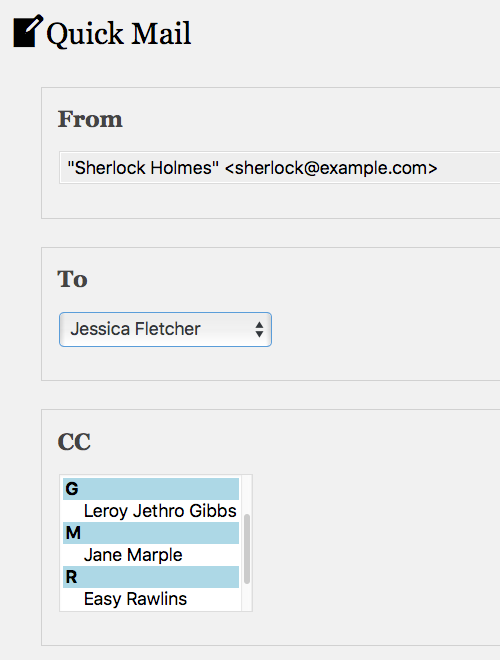
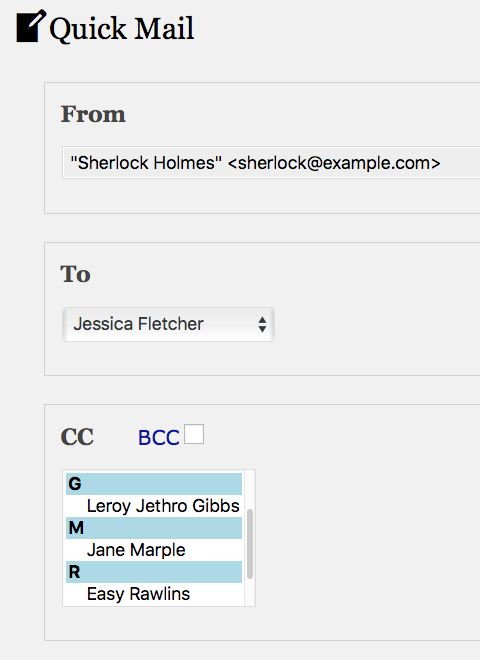
fixed message type on html messages. added Bcc option. improved help.

diff --git a/quick-mail.css b/quick-mail.css
@@ -1,5 +1,5 @@
 @CHARSET "UTF-8";
-/* quick-mail.css 2.0.6 */
+/* quick-mail.css 3.0.1 */
 
 fieldset {
 border: 1px solid #d1d1d1;
@@ -65,6 +65,10 @@ label.qm-label, span.qm-label {
 }
 label.qm-label, a:link, a:link:visited {
 	color: #11169b;
+}
+
+label#qmbcc_label { 
+	padding-left: 2em;
 }
 span.qm-label {
 	display: block;

diff --git a/quick-mail.php b/quick-mail.php
@@ -2,10 +2,10 @@
 /*
 Plugin Name: Quick Mail
 Description: Adds Quick Mail to Tools menu. Send email with an attachment from dashboard, using a list of users or enter a name.
-Version: 3.0.0
+Version: 3.0.1
 Author: Mitchell D. Miller
-Author URI: http://wheredidmybraingo.com/
-Plugin URI: http://wheredidmybraingo.com/tag/quick-mail/
+Author URI: https://wheredidmybraingo.com/
+Plugin URI: https://wheredidmybraingo.com/tag/quick-mail/
 Text Domain: quick-mail
 Domain Path: /lang
 */
@@ -484,7 +484,7 @@ jQuery(document).ready( function() {
    } // end quick_mail_recipient_input
    
 	public function quick_mail_cc_input( $to, $cc, $id ) {
-	   	$template = '<input aria-labelledby="qmcc_label" value="%s" id="qm-cc" name="qm-cc" type="text" size="35" tabindex="2" placeholder="%s">';
+	   	$template = '<input aria-labelledby="qmcc_label" value="%s" id="qm-cc" name="qm-cc" type="text" size="35" tabindex="3" placeholder="%s">';
 	   	$blog = is_multisite() ? get_current_blog_id() : 0;
 	   	$option = $this->qm_get_display_option( $blog );
 	   	if ( !$this->multiple_matching_users( $option, $blog ) ) {
@@ -640,6 +640,8 @@ jQuery(document).ready( function() {
          	wp_die( sprintf( '<h3>%s</h3>', __( 'Invalid mail address', 'quick-mail' ) ), __( 'Mail Error', 'quick-mail' ), $args );
          } // end if user circumvented Javascript
          
+         $rec_type = empty($_POST['qm_bcc']) ? 'Cc' : 'Bcc';
+         
          if (isset($_POST['qm-cc']) && is_array($_POST['qm-cc'])) {
          	$e = strtolower( urldecode( $_POST['qm-email'] ) );
          	foreach ($_POST['qm-cc'] as $c) {
@@ -710,13 +712,13 @@ jQuery(document).ready( function() {
          	$error = __( 'Please enter your message', 'quick-mail' );
          } else {
 	         $message = do_shortcode( $raw_msg );
-	         if ( strcmp( $raw_msg, $message ) || ( '<' == substr( $message, 0, 1 ) ) ) {
+	         if ( strcmp( $raw_msg, $message ) || is_string( strstr($message, '</') ) ) {
 				$this->content_type = 'text/html';
 	         } else {
 	         	$this->content_type = 'text/plain';
 	         } // end set content type
          } // end else got message
-
+         
          if ( empty( $error ) && !empty( $_FILES['attachment'] ) && !empty( $_FILES['attachment']['name'][0] ) ) {
 			$uploads = array_merge_recursive($_FILES['attachment'], $_FILES['second'], $_FILES['third'],
 											$_FILES['fourth'], $_FILES['fifth'], $_FILES['sixth'] );
@@ -766,15 +768,16 @@ jQuery(document).ready( function() {
          if ( empty( $error ) ) {
          	$headers = array( $from );
          	if ( !empty( $mcc ) ) {
-         		$headers[] = "Cc: {$mcc}";
+         		$headers[] = "{$rec_type}: {$mcc}";
          	} // end if CC
 
             if ( wp_mail( $to, $subject, $message, $headers, $attachments ) ) {
 	            	$success = __( 'Message Sent', 'quick-mail' );
+	            	$rec_label = ($rec_type == 'Cc') ? __( 'CC', 'quick-mail' ) : __( 'BCC', 'quick-mail' );
 	    			if (empty( $mcc ) ) {
 					$success .= sprintf("<br>%s %s", __( 'To', 'quick-mail' ), $to);            				
 				} else {
-					$success .= sprintf("<br>%s %s<br>%s %s", __( 'To', 'quick-mail' ), $to, __( 'CC', 'quick-mail' ), $mcc);
+					$success .= sprintf("<br>%s %s<br>%s %s", __( 'To', 'quick-mail' ), $to, $rec_label, $mcc);
 				} // end if has CC
             } else {
              	$error = __( 'Error sending mail', 'quick-mail' ); // else  error
@@ -866,6 +869,10 @@ if ( 'X' == $this->qm_get_display_option( $blog ) ) : ?>
 <?php endif; ?>
 <fieldset>
 <label id="qmcc_label" for="qm-cc" class="recipients"><?php _e( 'CC', 'quick-mail' ); ?></label>
+<label id="qmbcc_label" for="qm_bcc" class="qm-label"><?php _e( 'BCC', 'quick-mail' ); ?></label>
+<input tabindex="2" type="checkbox" id="qm_bcc" name="qm_bcc"
+onchange="if (jQuery('#qm_bcc').is(':checked')) { jQuery('#qmcc_label').text('<?php _e( 'BCC', 'quick-mail' ); ?>'); } 
+else { jQuery('#qmcc_label').text('<?php _e( 'CC', 'quick-mail' ); ?>') }">
 <p><?php echo $this->quick_mail_cc_input( $to, $mcc, $you->ID ); ?></p>
 </fieldset>
 <?php
@@ -888,23 +895,23 @@ placeholder="<?php _e( 'Subject', 'quick-mail' ); ?>" tabindex="22"></p>
 </fieldset>      
 <fieldset class="qm-second">
 <label id="qmf2" for="qm-second-file" class="recipients"><?php _e( 'Attachment', 'quick-mail' ); ?></label>
-<p class="qm-row-second"><input  aria-labelledby="qmf2" id="qm-second-file" name="second[]" type="file" multiple="multiple" tabindex="24"></p>
+<p class="qm-row-second"><input aria-labelledby="qmf2" id="qm-second-file" name="second[]" type="file" multiple="multiple" tabindex="24"></p>
 </fieldset>
 <fieldset class="qm-third">
 <label id="qmf3" for="qm-third-file" class="recipients"><?php _e( 'Attachment', 'quick-mail' ); ?></label>
-<p class="qm-row-third"><input  aria-labelledby="qmf3" id="qm-third-file" name="third[]" type="file" multiple="multiple" tabindex="25"></p>
+<p class="qm-row-third"><input aria-labelledby="qmf3" id="qm-third-file" name="third[]" type="file" multiple="multiple" tabindex="25"></p>
 </fieldset>
 <fieldset class="qm-fourth">
 <label id="qmf4" for="qm-fourth-file" class="recipients"><?php _e( 'Attachment', 'quick-mail' ); ?>:</label>
-<p class="qm-row-fourth"><input  aria-labelledby="qmf4" id="qm-fourth-file" name="fourth[]" type="file" multiple="multiple" tabindex="26"></p>
+<p class="qm-row-fourth"><input aria-labelledby="qmf4" id="qm-fourth-file" name="fourth[]" type="file" multiple="multiple" tabindex="26"></p>
 </fieldset>
 <fieldset class="qm-fifth">
 <label id="qmf5" for="qm-fifth-file" class="recipients"><?php _e( 'Attachment', 'quick-mail' ); ?></label>
-<p class="qm-row-fifth"><input  aria-labelledby="qmf5" id="qm-fifth-file" name="fifth[]" type="file" multiple="multiple" tabindex="27"></p>
+<p class="qm-row-fifth"><input aria-labelledby="qmf5" id="qm-fifth-file" name="fifth[]" type="file" multiple="multiple" tabindex="27"></p>
 </fieldset>
 <fieldset class="qm-sixth">
 <label id="qmf6" for="qm-sixth-file" class="recipients"><?php _e( 'Attachment', 'quick-mail' ); ?></label>
-<p class="qm-row-sixth"><input id="qm-sixth-file" name="sixth[]" type="file" multiple="multiple" tabindex="28"></p>
+<p class="qm-row-sixth"><input aria-labelledby="qmf6" id="qm-sixth-file" name="sixth[]" type="file" multiple="multiple" tabindex="28"></p>
 </fieldset>
 <?php endif; ?>
 <fieldset>
@@ -918,10 +925,10 @@ rows="8" cols="60" tabindex="50"><?php echo htmlspecialchars( $message, ENT_QUOT
 <?php
 } else {  
 $editor_id = 'qm-message';
-$content = $message; // htmlspecialchars( $message, ENT_QUOTES );
+$content = $message;
 $settings = array('content' => htmlspecialchars( $message, ENT_QUOTES ),
-		'textarea_rows' => 8, 'tabindex' => 50, );
-wp_editor( $content, $editor_id, $settings); // 		'teeny' => true, 'media_buttons' => false
+'textarea_rows' => 8, 'tabindex' => 50, );
+wp_editor( $content, $editor_id, $settings);
 } // end if
 ?>
 </fieldset>
@@ -1406,6 +1413,21 @@ echo sprintf('<span id="qm_hide_desc" class="qm-label">%s %s</span>', __( 'User 
 				$attachment_help .= ' ' . __( 'from up to six directories', 'quick-mail' );
 			} // end if mobile
 			$attachment_help .= '.</p>';
+			$mac_files = __( 'Press &lt;Command&gt; while clicking, to select multiple files.', 'quick-mail' );
+			$win_files = __( 'Press &lt;Control&gt; while clicking, to select multiple files.', 'quick-mail' );
+			$mob_files = __( 'You can select multiple files', 'quick-mail' );
+			$nhelp = '';
+			if (wp_is_mobile()) {
+				$nhelp = $mob_files;
+			} else {
+				$b = empty($_SERVER['HTTP_USER_AGENT']) ? '' : $_SERVER['HTTP_USER_AGENT'];
+				if ( preg_match( '/macintosh|mac os x/i', $b ) ) {
+					$nhelp = $mac_files;
+				} else {
+					$nhelp = $win_files;
+				} // end if
+			} // end if
+			$attachment_help .= "<p>{$nhelp}</p>";
 		} // end if uploads
 		$screen->add_help_tab( self::get_qm_help_tab() );
 		$screen->add_help_tab( array(

diff --git a/README.md b/README.md
@@ -38,7 +38,7 @@ __Features__
 ### Learn More
 * See [How to Send Email from WordPress Admin](http://wheredidmybraingo.com/quick-mail-wordpress-plugin-update-send-email-to-site-users/) for an introduction.
 
-* See [Quick Mail 3.0.0 Improves Editing and Accessibility](http://wheredidmybraingo.com/quick-mail-3-0-0-improves-editing-accessibility/) for update info.
+* See [Quick Mail Adds BCC, Improves HTML Messages](https://wheredidmybraingo.com/quick-mail-adds-bcc-improves-html-messages/) for update info.
 
 ### Installation ###
 
@@ -56,7 +56,9 @@ __Who can send mail?__
 
 = Who can send rich text messages? =
 
-* User must have [Visual Editor enabled](https://codex.wordpress.org/Function_Reference/user_can_richedit) on their profile.
+* User must have [Visual Editor enabled](https://codex.wordpress.org/Function_Reference/user_can_richedit) on their profile, to compose messages with the Visual Editor.
+
+* Anyone can send HTML by pasting it into a message.
 
 __Selecting Recipients__
 
@@ -67,6 +69,8 @@ __Selecting Recipients__
 __Limitations__
 
 * Up to 12 manually entered recipients are saved in HTML Storage.
+
+* Additional recipients can be either `CC` or `BCC` but not both.
 
 * Multiple files can be uploaded from up to 6 folders (directories).
 
